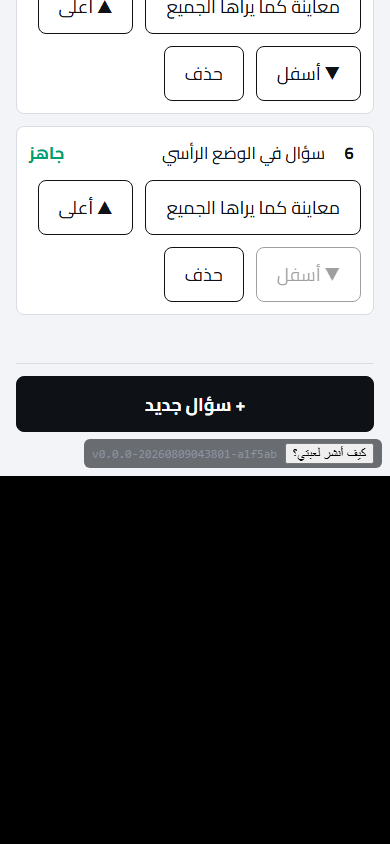
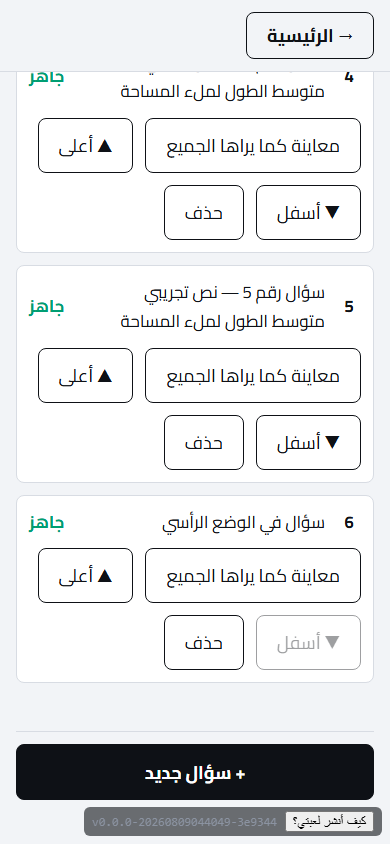
C4 إصلاح: تذكير الحفظ يظهر عند وجود عمل غير محفوظ فقط

diff --git a/tests/editor/live/preview-readiness-backup.ts b/tests/editor/live/preview-readiness-backup.ts
@@ -156,11 +156,35 @@ async function main(): Promise<void> {
     // ===============================================================
     // AC4 (case 2 — clean) — T1 reminder NOT shown once saved
     // ===============================================================
-    console.log('\n=== AC4 (case 2/2) — T1 reminder hidden once there are no unsaved changes ===');
+    console.log('\n=== AC4 (case 2/3) — T1 reminder hidden once there are no unsaved changes ===');
     const cleanReminderHidden = await page.locator('.session-end-reminder').isHidden();
     console.log('  T1 reminder hidden (expected true — just saved, no new edits):', cleanReminderHidden);
     if (!cleanReminderHidden) fail('AC4 (clean case)', 'T1 reminder still shown after a clean save');
-    else console.log('AC4 (clean case) PASSED — both T1 cases proven live.');
+    else console.log('AC4 (clean case) PASSED.');
+
+    // ===============================================================
+    // AC4 (case 3 — dirty again) — a further edit AFTER a clean backup
+    // must bring the T1 reminder BACK. Coordinator follow-up, 2026-08-09:
+    // the reminder must never train the host to ignore it — it has to
+    // reappear the moment there is something new to lose, not stay
+    // permanently cleared after the first save.
+    // ===============================================================
+    console.log('\n=== AC4 (case 3/3) — T1 reminder returns after a further edit past the backup ===');
+    await page.click('#editor-add-question');
+    await page.fill('.question-text-input', 'سؤال ثانٍ بعد الحفظ');
+    const secondOptionInputs = page.locator('.option-text-input');
+    const secondOptions = ['أ', 'ب', 'ج', 'د'];
+    for (let i = 0; i < 4; i += 1) await secondOptionInputs.nth(i).fill(secondOptions[i]!);
+    await page.locator('.option-correct-radio').nth(0).check();
+    await page.click('.question-submit');
+    await page.waitForSelector('.question-card >> nth=1');
+    const reappearedReminderVisible = await page.locator('.session-end-reminder').isVisible();
+    console.log('  T1 reminder visible again (expected true — edited after the backup):', reappearedReminderVisible);
+    if (!reappearedReminderVisible) {
+      fail('AC4 (dirty-again case)', 'T1 reminder did NOT return after an edit past the last backup — a cleared reminder that never comes back trains the host to ignore it');
+    } else {
+      console.log('AC4 (dirty-again case) PASSED — all three T1 cases proven live: fresh (hidden), dirty (shown), saved (hidden), edited-again (shown).');
+    }
 
     // ===============================================================
     // AC3c — publish boundary (recordPublish), badge shows "published"

diff --git a/src/editor/editor.css b/src/editor/editor.css
@@ -373,6 +373,29 @@
   align-items: center;
   gap: 12px;
 }
+/* Same cascade-defeat bug as `.editor-sticky-bar[hidden]` above, found
+ * live (coordinator follow-up, 2026-08-09): `.storage-full-banner` and
+ * `.session-end-reminder` both toggle the `hidden` IDL property
+ * (`storage-full-banner.ts`'s `setStorageFullBannerVisible`,
+ * `backup-badge.ts`'s `render`) to show/hide, but the `display: flex`
+ * rule immediately above is an author-stylesheet rule of the SAME
+ * specificity as the user-agent's `[hidden] { display: none }` default —
+ * author origin wins regardless of specificity, so `hidden = true` had NO
+ * visible effect (confirmed live: `getComputedStyle(...).display` reads
+ * `"flex"` and the element's bounding rect is non-zero even with
+ * `el.hidden === true`). This is exactly why the T1 «قبل ما تسكّر»
+ * reminder appeared on a fresh, never-edited draft and stayed visible
+ * after a backup was recorded — the underlying `hasUnsavedChanges()`
+ * predicate in `draft-store.ts` was correct throughout; only this
+ * rendering layer ignored it. `.return-prompt`/`.backup-badge-area` never
+ * toggle `hidden` (the former is `.remove()`d, the latter is always
+ * shown), so they needed no override — restated here for the SAME two
+ * selectors that actually use it, not the whole group, to keep the reason
+ * this rule exists legible at the point it is used. */
+.storage-full-banner[hidden],
+.session-end-reminder[hidden] {
+  display: none;
+}
 .return-prompt-message,
 .storage-full-banner-message {
   flex: 1 1 200px;

diff --git a/docs/تأسيس-المشروع/تقارير/المنفِّذ/worklog-C4.md b/docs/تأسيس-المشروع/تقارير/المنفِّذ/worklog-C4.md
@@ -125,3 +125,44 @@ Grepped `src/editor/**` for any literal preset list (`قصيرة`/`عادية`/`
 ### Close-out (second pass)
 
 Dev server on :3013 stopped and port confirmed free again. `git status --short`: only the files listed in the fixes/additions table above, plus regenerated live-script screenshots/JSON (legitimate re-run evidence, not stray). Not committed — coordinator commits.
+
+---
+
+## 7. The disclosed T1-reminder bug — fixed, not left for later (coordinator follow-up, 2026-08-09)
+
+Coordinator, after committing §6 as `0d85e25`: fix the AC3a/AC4 finding rather than leave it, since a reminder that fires with nothing to lose and stays silent after a real loss trains the host to ignore the one guardrail against losing an evening of work. Correctly pointed at the likely shape of the bug: "the state is probably there and only the display predicate is wrong — confirm rather than assume."
+
+**Confirmed rather than assumed.** Read `draft-store.ts`'s `hasUnsavedChanges()` in full first: `meta === null → false`; else `meta.updatedAt > max(lastBackupAt ?? 0, lastPublishAt ?? 0)`. Correct on inspection — `recordBackup`/`recordPublish` both stamp their own `*At` fields and deliberately never touch `updatedAt` (the file's own comment: "that field means content last changed, not backup last taken — `hasUnsavedChanges()` depends on keeping the two independent"). So the state layer was not the suspect.
+
+Wrote a throwaway diagnostic (`tests/editor/diagnose-reminder-hidden.manual.cjs`, since deleted) that opened the editor fresh and read `{ hiddenAttr: el.hidden, computedDisplay: getComputedStyle(el).display, visibleRect }` directly from the live DOM for `.session-end-reminder` and `.storage-full-banner`. Result: `hiddenAttr: true` but `computedDisplay: "flex"` and `visibleRect: true` for **both** — confirmed, not assumed: the `hidden` IDL property was being set correctly by `backup-badge.ts`/`storage-full-banner.ts`, and the browser was ignoring it.
+
+**Root cause: the exact same cascade-defeat bug already found and fixed once tonight for `.editor-sticky-bar[hidden]` (§2), recurring in a different rule I wrote in the same Tier-3 CSS pass.** `editor.css`'s "Banners / prompts" block sets `.storage-full-banner, .return-prompt, .backup-badge-area, .session-end-reminder { display: flex; ... }` — an author-stylesheet rule at the same specificity as the user-agent's `[hidden] { display: none }` default. Per the cascade, author origin wins regardless of specificity, so `element.hidden = true` had zero visible effect on the two of those four selectors that actually toggle `hidden` (`.storage-full-banner` via `setStorageFullBannerVisible`, `.session-end-reminder` via `backup-badge.ts`'s `render`). `.return-prompt` is `.remove()`d rather than hidden, and `.backup-badge-area` is never hidden, so neither needed the fix. I did not catch this the first time because jsdom (vitest's unit-test environment) does not apply imported CSS the way a real browser does — only a real-browser live check could have caught it, which is exactly why it surfaced in `preview-readiness-backup.ts` and nowhere in the 128-test vitest suite.
+
+**Fix**: `src/editor/editor.css` — added `.storage-full-banner[hidden], .session-end-reminder[hidden] { display: none; }` immediately after the flex rule, scoped to only the two selectors that actually need it (not blanket-applied to the group), with a comment naming the mechanism so it is not silently reintroduced a third time.
+
+### Red→green, the actual predicate this time
+
+Diagnostic re-run after the fix: both elements now report `computedDisplay: "none"`, `visibleRect: false` while `hiddenAttr: true` — cascade defeat closed.
+
+Extended `tests/editor/live/preview-readiness-backup.ts` (already covered fresh/dirty/clean) with the missing fourth case the coordinator asked for — a further edit *after* a clean backup must bring the reminder back, proving it is not a one-shot "cleared forever" flag:
+
+| Case | Before fix | After fix |
+|---|---|---|
+| 1. Fresh, empty draft — reminder hidden | **FAILED** — shown | PASSED — hidden |
+| 2. Draft with unsaved changes — reminder shown | passed (display was already `flex`, coincidentally correct for this one case) | PASSED |
+| 3. Backup taken — reminder clears | **FAILED** — stayed shown | PASSED — hidden |
+| 4. Further edit after the backup — reminder returns | *(not previously tested)* | PASSED — shown again |
+
+Full run, `npx tsx tests/editor/live/preview-readiness-backup.ts`, real Chromium + real IndexedDB: **`ALL PH-C3 LIVE SCENARIOS PASSED`** (every AC in the file, not only the T1 cases).
+
+### Full verification re-run after the fix
+
+- `npx tsc --noEmit` — unchanged: the same single pre-existing `game-driver.ts` error (WL-B's, `mazeGenVersion`), zero in anything I touched.
+- `npx vitest run` — 23 files / **128 tests** passed (CSS-only fix; no unit test surface changed).
+- `npm run build` — clean, PH-D1 gates 0 violations.
+- `node tests/editor/live-tier3-reachability.manual.cjs` — still `OVERALL_PASS: true` (the banner/reminder fix does not touch the reachability surface, but re-run to be sure a shared stylesheet edit did not regress it).
+- `npx tsx tests/editor/live/preview-readiness-backup.ts` — **all scenarios pass**, see above.
+
+### Close-out (third pass)
+
+Diagnostic script deleted after use (not a standing check — the standing check remains `live-tier3-reachability.manual.cjs`; this fourth-case proof lives permanently in the extended `preview-readiness-backup.ts`). Dev server on :3013 stopped, port confirmed free. Not committed — coordinator commits.
